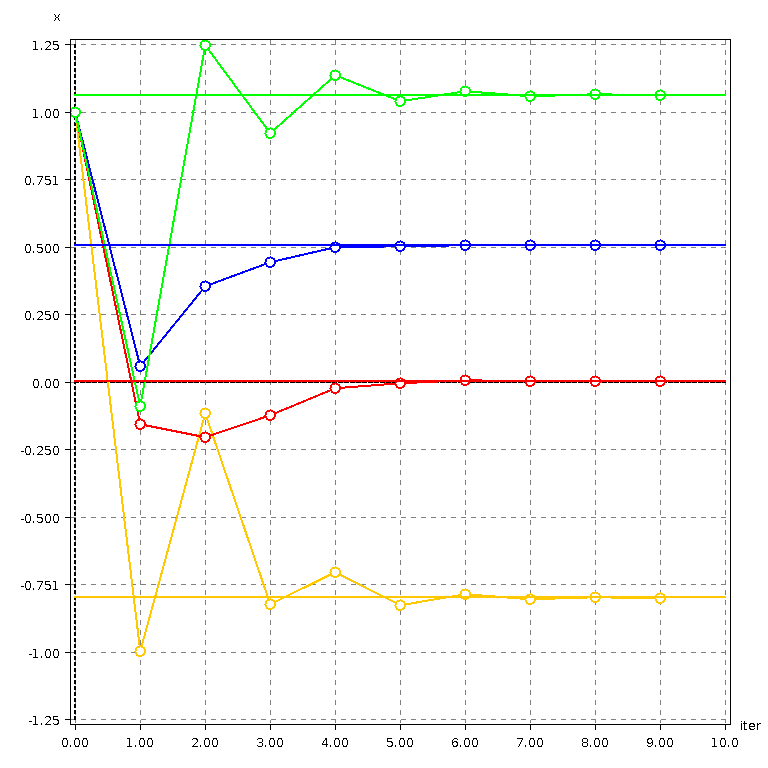
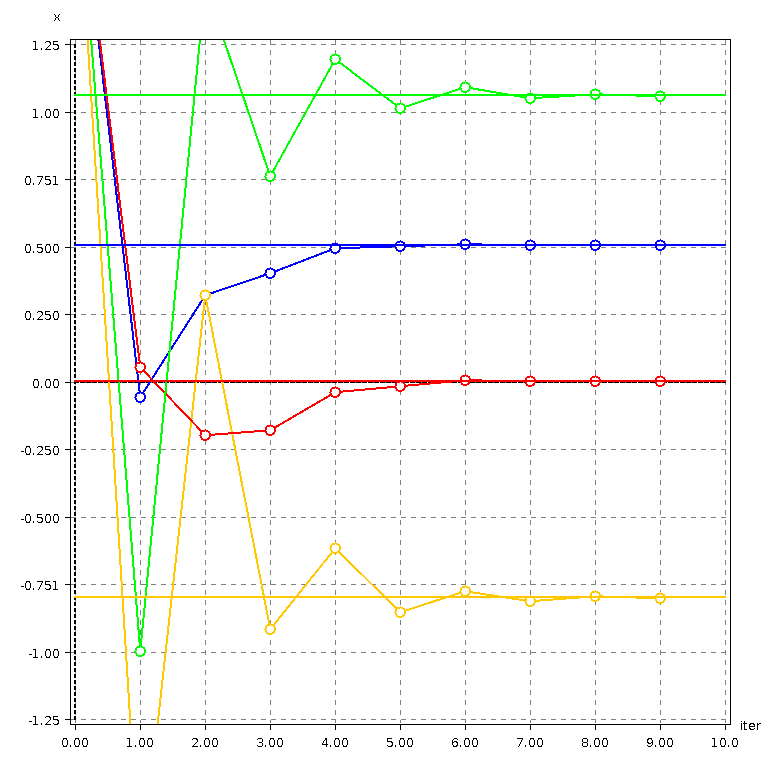
yep

diff --git a/task61/src/main/java/mathe3/Task61.java b/task61/src/main/java/mathe3/Task61.java
@@ -26,10 +26,11 @@ public class Task61 {
 
 
     private static final double[][] startSamples = {
+            {10, 10, 10, 10},
             {5, 5, 5, 5},
             {2, 2, 2, 2},
-            {1, 1, 1, 1},
             {0, 0, 0, 0},
+            {0.5, -0.8, 0, 1.1},
     } ;
 
     public static void main(String[] args) {
